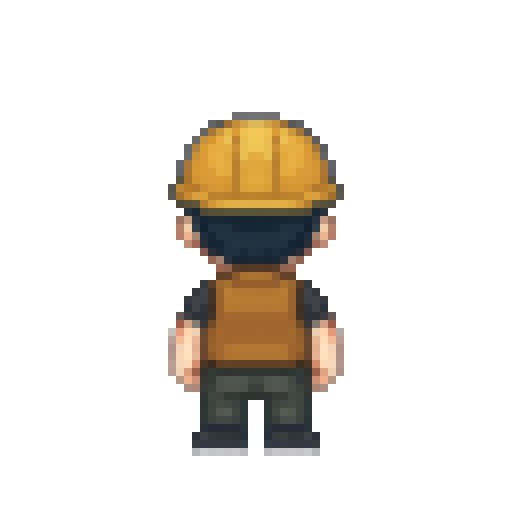
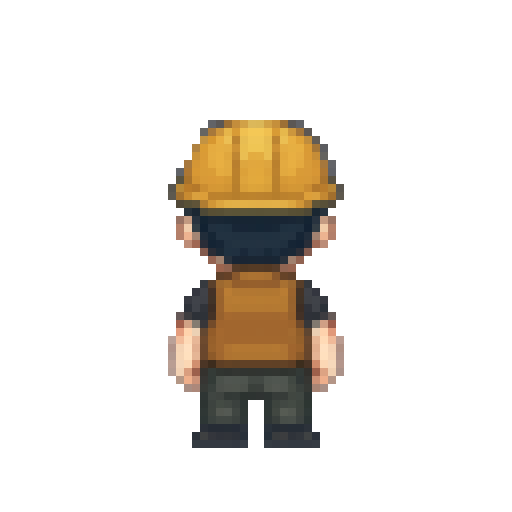
feat(ui): Pixel signature action poses + transparent residue cleanup
Owner-requested Phase 2 increment: one reviewed key pose per role (pm typing,
arch whiteboard, dev coffee, qa magnifier, ops deploy, res book, designer notes,
gate shield), shown only while that role performs its own signature behavior
and is not walking or seated. Priority: walking front > seated back > action >
front. Live pose share: front standing 43% -> 42%, action 6%.

The Gemini candidates carried an opaque light/grey rim from upstream white
background removal; the owner asked for it to be transparent.
scripts/pixel_alpha_cleanup.py removes only edge-connected near-neutral light
pixels not in the role master's palette (identity whites kept); sources stay
untouched, runtime files and hashes recorded in PROVENANCE.md. Back views
re-derived with the same recipe. All files preloaded before the atomic swap.

diff --git a/src/systems/characterAppearance.js b/src/systems/characterAppearance.js
@@ -17,29 +17,55 @@ const SOURCE_SIZE = 512
 const BASE_URL = `${(typeof import.meta !== 'undefined' && import.meta.env?.BASE_URL) || '/'}assets/characters/pixel-v1/`
 
 // pivot = measured sole contact in logical px (see public/assets/characters/pixel-v1/PROVENANCE.md).
-// views.back = owner-requested import (2026-11-08) of the 2026-11-07 idle-up candidates, used ONLY for
-// the seated-at-desk pose (everything below the waist is clipped behind the chair).
+// views = owner-requested imports (2026-11-08/09): back (seated at desk) + one signature action per
+// role. Runtime files are DERIVED from Gemini candidates by scripts/pixel_alpha_cleanup.py (outer
+// light/grey background residue -> transparent, identity colours of the master kept); sources and
+// hashes are recorded in public/assets/characters/pixel-v1/PROVENANCE.md.
 // Dev's canvas is off-centre (twin tails) and her soles end one row higher.
 export const PIXEL_V1_PACK = Object.freeze({
   version: 'pixel-v1',
   sourceSize: SOURCE_SIZE,
   roles: Object.freeze({
[2 lines of base64/hex data omitted]
+      views: {
[2 lines of base64/hex data omitted]
+      } },
[2 lines of base64/hex data omitted]
+      views: {
[2 lines of base64/hex data omitted]
+      } },
[2 lines of base64/hex data omitted]
+      views: {
[2 lines of base64/hex data omitted]
+      } },
[2 lines of base64/hex data omitted]
+      views: {
[2 lines of base64/hex data omitted]
+      } },
[2 lines of base64/hex data omitted]
+      views: {
[2 lines of base64/hex data omitted]
+      } },
[2 lines of base64/hex data omitted]
+      views: {
[2 lines of base64/hex data omitted]
+      } },
[2 lines of base64/hex data omitted]
+      views: {
[2 lines of base64/hex data omitted]
+      } },
[2 lines of base64/hex data omitted]
+      views: {
[2 lines of base64/hex data omitted]
+      } },
   }),
   // Lightweight-mode roles reuse the identity the classic palette already maps them to.
   aliases: Object.freeze({ planner: 'pm', worker: 'dev', checker: 'qa' }),
@@ -56,6 +82,25 @@ function viewEntry(role, view, pack) {
 
 export function pixelHasBackView(role, pack = PIXEL_V1_PACK) {
   return !!pack.roles[role]?.views?.back
+}
+
+// Behavior -> signature action pose. A role shows a pose only for ITS OWN signature behavior and
+// only when that reviewed view exists; otherwise the front master (honest fallback). The pose is
+// chosen from the agent's actual behavior, never from its transport status.
+export const BEHAVIOR_POSES = Object.freeze({
+  typing: 'typing',
+  whiteboard: 'pointing-board',
+  'drink-coffee': 'drinking-coffee',
+  magnifier: 'reading-magnifier',
+  'deploy-button': 'control-deploy',
+  research: 'reading-book',
+  'writing-notes': 'writing-notes',
+  'shield-verify': 'control-shield',
+})
+
+export function pixelActionView(role, behavior, pack = PIXEL_V1_PACK) {
+  const view = BEHAVIOR_POSES[behavior]
+  return view && pack.roles[role]?.views?.[view] ? view : null
 }
 
 // Every file the pack can render (front masters + reviewed views): all are preloaded before the

diff --git a/tests/seatedAtDesk.test.jsx b/tests/seatedAtDesk.test.jsx
@@ -4,8 +4,8 @@ import { renderToStaticMarkup } from 'react-dom/server'
 import { HOME_POSITIONS } from '../src/systems/movementSystem.js'
 import { isSeatedAtDesk, DESK_ROLES, SEAT_SHIFT, SEAT_CLIP_Y } from '../src/systems/seating.js'
 import { applyBackView } from '../src/systems/backView.js'
-import { CharacterBody } from '../src/components/CharacterBody.jsx'
-import { PIXEL_V1_PACK, pixelHasBackView } from '../src/systems/characterAppearance.js'
+import { CharacterBody, pixelViewFor } from '../src/components/CharacterBody.jsx'
+import { PIXEL_V1_PACK, pixelHasBackView, BEHAVIOR_POSES, pixelActionView } from '../src/systems/characterAppearance.js'
 
 const home = (id) => ({ ...HOME_POSITIONS[id] })
 
@@ -75,5 +75,29 @@ describe('seated frame rendering', () => {
     expect(html).toContain('data-pixel-view="back"')
     expect(html).toMatch(/pixel-v1\/dev-back\.png/)
     expect(html).toContain('x="-31.5"') // dev back pivot x 36 * 7/8
+  })
+})
+
+describe('Pixel signature action poses', () => {
+  const svg = (el) => renderToStaticMarkup(<svg>{el}</svg>)
+  const SIGNATURE = { pm: 'typing', arch: 'whiteboard', dev: 'drink-coffee', qa: 'magnifier', ops: 'deploy-button', res: 'research', designer: 'writing-notes', gate: 'shield-verify' }
+  it("each role has exactly its own signature pose, and no one borrows another role's", () => {
+    for (const [role, behavior] of Object.entries(SIGNATURE)) {
+      expect(pixelActionView(role, behavior), role).toBe(BEHAVIOR_POSES[behavior])
+      for (const [other, b2] of Object.entries(SIGNATURE)) if (other !== role) expect(pixelActionView(role, b2), `${role}/${b2}`).toBe(null)
+    }
+  })
+  it('pose priority: walking front > seated back > own action > front', () => {
+    expect(pixelViewFor({ charId: 'pm', isMoving: true, seated: true, behavior: 'typing' })).toBe('front')
+    expect(pixelViewFor({ charId: 'pm', seated: true, behavior: 'typing' })).toBe('back')
+    expect(pixelViewFor({ charId: 'pm', behavior: 'typing' })).toBe('typing')
+    expect(pixelViewFor({ charId: 'pm', behavior: 'coffee' })).toBe('front')
+    expect(pixelViewFor({ charId: 'worker', behavior: 'drink-coffee' })).toBe('drinking-coffee') // alias -> dev
+    expect(pixelViewFor({ charId: 'mystery', behavior: 'whiteboard' })).toBe('front') // fallback pm has no whiteboard pose
+  })
+  it('renders the action file with its own pivot', () => {
+    const html = svg(<CharacterBody appearance="pixel" charId="arch" behavior="whiteboard" />)
+    expect(html).toContain('data-pixel-view="pointing-board"')
+    expect(html).toMatch(/pixel-v1\/arch-pointing-board\.png/)
   })
 })

diff --git a/src/components/CharacterBody.jsx b/src/components/CharacterBody.jsx
@@ -1,5 +1,5 @@
 import React, { useSyncExternalStore } from 'react'
-import { getAppearanceSnapshot, pixelAssetUrl, pixelBodyPlacement, resolvePixelRole, subscribeAppearance } from '../systems/characterAppearance'
+import { getAppearanceSnapshot, pixelActionView, pixelAssetUrl, pixelBodyPlacement, resolvePixelRole, subscribeAppearance } from '../systems/characterAppearance'
 import { SEAT_CLIP_Y, SEAT_SHIFT } from '../systems/seating.js'
 
 // { requested, active, status, error } — `active` is what renders (only flips after a full preload).
@@ -13,9 +13,17 @@ export function useOfficeAppearance() {
 // Pixel   → the role's front master for every facing (Phase 1: no mirroring, no pasted
 //           classic arms/face, unsupported expressions stay neutral).
 // (Not memoised: `classic` is a fresh element every parent render; PixelBody itself is memoised.)
-export function CharacterBody({ appearance, charId, isMoving = false, reducedMotion = false, classic, seated = false, seatClipId = 'seat-clip' }) {
+// Pixel pose priority: walking -> front master; seated at desk (working) -> back; stationary doing
+// the role's own signature behavior with a reviewed pose -> that action; otherwise front master.
+export function pixelViewFor({ charId, isMoving = false, seated = false, behavior = null }) {
+  if (isMoving) return 'front'
+  if (seated) return 'back'
+  return pixelActionView(resolvePixelRole(charId), behavior) || 'front'
+}
+
+export function CharacterBody({ appearance, charId, isMoving = false, reducedMotion = false, classic, seated = false, seatClipId = 'seat-clip', behavior = null }) {
   const body = appearance !== 'pixel' ? classic
-    : <PixelBody charId={charId} isMoving={isMoving} reducedMotion={reducedMotion} view={seated ? 'back' : 'front'} />
+    : <PixelBody charId={charId} isMoving={isMoving} reducedMotion={reducedMotion} view={pixelViewFor({ charId, isMoving, seated, behavior })} />
   return <SeatedFrame seated={seated} clipId={seatClipId}>{body}</SeatedFrame>
 }
 

diff --git a/src/systems/characterAppearance.test.js b/src/systems/characterAppearance.test.js
@@ -143,8 +143,9 @@ describe('appearance store (atomic pack switch)', () => {
   it('preload covers every front master and every reviewed view exactly once', () => {
     const urls = requiredPixelUrls()
     expect(new Set(urls).size).toBe(urls.length)
-    expect(urls.filter(u => !u.includes('-back.png'))).toHaveLength(8)
+    expect(urls.filter(u => /pixel-v1\/[a-z]+\.png$/.test(u))).toHaveLength(8)
     expect(urls.filter(u => u.includes('-back.png'))).toHaveLength(8)
+    expect(urls).toHaveLength(8 + 8 + 8) // front + back + one signature action per role
   })
 
   it('urls are same-origin relative paths under the pack folder', () => {

diff --git a/src/components/AgentCharacter.jsx b/src/components/AgentCharacter.jsx
@@ -1710,7 +1710,7 @@ function AgentCharacter({ agent }) {
       {/* Phase-1 Pixel appearance swaps ONLY this decorative body; everything else in this
           actor group (rings, labels, badges, bubbles, input) is shared by both appearances. */}
       <CharacterBody appearance={appearance} charId={id} isMoving={isWalking} reducedMotion={reducedMotion}
-        seated={seated} seatClipId={`seat-clip-${id}`}
+        seated={seated} seatClipId={`seat-clip-${id}`} behavior={state.behavior}
         classic={(
           <CharacterPixelSprite
             charId={id}

diff --git a/scripts/pixel_alpha_cleanup.py b/scripts/pixel_alpha_cleanup.py
@@ -1,0 +1,103 @@
+"""Deterministic background-residue cleanup for Pixel candidate art (owner-requested 2026-11-09).
+
+Some Gemini candidates were exported on white and then background-removed, which left opaque
+light-grey pixels on the outer silhouette (worst around the shoes, sometimes a strip under the
+soles). This tool makes ONLY those residue pixels transparent:
+
+  * works on the 64x64 logical grid (every logical pixel is an exact 8x8 block; refuses otherwise)
+  * a pixel is residue when it is opaque, light (min channel > 100) and near-neutral
+    (max-min < 30), 4-connected to the OUTSIDE transparent region, and its colour is NOT within
+    6 (per channel) of any opaque colour of that role's ORIGINAL master - so identity whites such
+    as Dev's sneakers, QA's sleeves or Gate's silver hair are kept
+  * peels at most 2 layers (the 1-2 px blended rim/strip), never touches interior pixels
+  * changes alpha only (to 0) for whole 8x8 blocks; every other pixel is copied unchanged
+
+Usage: python scripts/pixel_alpha_cleanup.py <candidate.png> <master.png> <out.png>
+Prints a JSON report (removed logical pixels, input/output sha256). Requires Pillow.
+Originals are never modified; the report is the provenance record.
+"""
+import hashlib
+import json
+import sys
+
+from PIL import Image
+
+LIGHT_MIN, NEUTRAL_SPREAD, PALETTE_TOL, MAX_LAYERS = 100, 30, 6, 2
+
+
+def sha(path):
+    return hashlib.sha256(open(path, 'rb').read()).hexdigest()
+
+
+def grid_of(im):
+    px = im.load()
+    w, h = im.size
+    if (w, h) != (512, 512):
+        raise SystemExit(f'expected 512x512, got {w}x{h}')
+    g = []
+    for by in range(64):
+        row = []
+        for bx in range(64):
+            c = px[bx * 8, by * 8]
+            for y in range(8):
+                for x in range(8):
+                    if px[bx * 8 + x, by * 8 + y] != c:
+                        raise SystemExit(f'non-uniform 8x8 block at logical ({bx},{by})')
+            row.append(c)
+        g.append(row)
+    return g
+
+
+def main(cand_path, master_path, out_path):
+    cand = Image.open(cand_path).convert('RGBA')
+    master = Image.open(master_path).convert('RGBA')
+    g = grid_of(cand)
+    mg = grid_of(master)
+    palette = {c[:3] for row in mg for c in row if c[3] >= 250}
+
+    def in_palette(rgb):
+        return any(all(abs(a - b) <= PALETTE_TOL for a, b in zip(rgb, p)) for p in palette)
+
+    def residue_like(c):
+        r, gg, b, a = c
+        return a >= 250 and min(r, gg, b) > LIGHT_MIN and max(r, gg, b) - min(r, gg, b) < NEUTRAL_SPREAD and not in_palette((r, gg, b))
+
+    # outside = transparent cells connected to the canvas border
+    outside = set()
+    stack = [(x, y) for x in range(64) for y in (0, 63)] + [(x, y) for y in range(64) for x in (0, 63)]
+    while stack:
+        x, y = stack.pop()
+        if (x, y) in outside or not (0 <= x < 64 and 0 <= y < 64) or g[y][x][3] != 0:
+            continue
+        outside.add((x, y))
+        stack += [(x + 1, y), (x - 1, y), (x, y + 1), (x, y - 1)]
+
+    removed = []
+    for _ in range(MAX_LAYERS):
+        layer = [(x, y) for y in range(64) for x in range(64)
+                 if residue_like(g[y][x]) and any((nx, ny) in outside for nx, ny in ((x + 1, y), (x - 1, y), (x, y + 1), (x, y - 1)))]
+        if not layer:
+            break
+        for x, y in layer:
+            removed.append([x, y, list(g[y][x][:3])])
+            g[y][x] = (0, 0, 0, 0)
+            outside.add((x, y))
+
+    out = cand.copy()
+    px = out.load()
+    for x, y, _ in removed:
+        for yy in range(8):
+            for xx in range(8):
+                px[x * 8 + xx, y * 8 + yy] = (0, 0, 0, 0)
+    out.save(out_path, format='PNG')
+    print(json.dumps({
+        'input': cand_path, 'input_sha256': sha(cand_path),
+        'master': master_path, 'master_sha256': sha(master_path),
+        'output': out_path, 'output_sha256': sha(out_path),
+        'recipe': {'light_min': LIGHT_MIN, 'neutral_spread': NEUTRAL_SPREAD, 'palette_tol': PALETTE_TOL, 'max_layers': MAX_LAYERS},
+        'removed_count': len(removed), 'removed': removed,
+    }))
+
+
+if __name__ == '__main__':
+    main(*sys.argv[1:4])

diff --git a/public/assets/characters/pixel-v1/PROVENANCE.md b/public/assets/characters/pixel-v1/PROVENANCE.md
@@ -23,26 +23,38 @@ removal, trim, recentre, resample or recolour.
 | gate.png | 8692bcceee24a97423808a49c1a0bb5f6b31383ce87d9555b2b97b8889832dd8 |
 | designer.png | 61a665352ce563ba3a8a6de6cd6db5b6adc71be1873b93f0648059f200ed679c |
 
-## Back views (`<role>-back.png`) — imported 2026-11-08 at the owner's request
+## Views (back + signature actions) — imported 2026-11-08/09 at the owner's request
 
-Byte-for-byte copies of `pixel-kit/generated/candidates/2026-11-07-directions/characters/<role>/idle-up-0.png`.
-These candidates were produced by Gemini from each role's ORIGINAL master, but the producer
-disclosed background segmentation / crop / per-image scaling that had not been approved; the owner
-asked for them to be imported after review. Claude's review: 512x512 RGBA, zero non-uniform 8x8
-blocks, hard alpha (no partial-alpha halo), identity matches each master from behind (light and dark
-backgrounds). Known defect: pm / qa / ops / gate carry a light-grey residue strip on the row under
-the soles (logical row 56) from background removal. Mitigation: back views are used ONLY for the
-seated-at-desk pose, where everything below the waist is clipped behind the chair, so the strip is
-never rendered. Pivot = measured dark-sole bottom row / sole midpoint (not the residue row).
-Heads are 1-2 logical rows taller than the masters (accepted; seated only).
+Sources: Gemini candidates generated from each role's ORIGINAL master
+(`candidates/2026-11-07-directions/.../idle-up-0.png` for backs, `candidates/2026-11-05-regenerated/.../actions/*`
+for actions, Dev's coffee pose from the 2026-11-07 replacement). Those exports had been background-removed
+from white upstream, leaving an opaque light/grey rim (worst at the shoes, a strip under some soles); the
+owner asked for it to be made transparent.
 
-| file | sha256 | pivot (x, y) |
-|---|---|---|
-| pm-back.png | 04c603a98548d606be3991c20148c47a2df96ffad2a25ce12fc5711bbd77763d | 31.5, 57 |
-| arch-back.png | 5cf00fcf0ddeba3d7c7dd055abb204e17367371f4c916472cd656c3912053501 | 31, 56 |
-| dev-back.png | e2a4052ece046595ae677a06657aacb9a97710cb0de947d5b73724083ee72079 | 36, 57 |
-| qa-back.png | ff4c6de508b008565ee7a1e01a7ddaca4b6387ff481af95569119cae715f6e95 | 32, 56 |
-| ops-back.png | 2952b81ce35d8112004e5d2b90baa25b49698a831203bb366d9c3bfea8669ed5 | 32, 56 |
-| res-back.png | 17150b272363f8ac4b13c8edd87a52628b227f9fd4d055fe6aa69eef646c0c61 | 32, 57 |
-| designer-back.png | 96728530404986b37b9f3707385644770de9dfb0ef9818564f3b7babf2107784 | 32, 57 |
-| gate-back.png | 339999b385020d8cab781edcaa6657d4a6079186277a45ad322093af2e543180 | 31.5, 56 |
+Runtime files are DERIVED, not byte copies: `python scripts/pixel_alpha_cleanup.py <source> <master> <out>`
+(recipe: light_min 100, neutral_spread 30, palette_tol 6, max_layers 2) sets alpha to 0 only on
+edge-connected, near-neutral light pixels whose colour is not in that role's master palette, for whole 8x8
+blocks; nothing else changes. Sources stay untouched in the kit. Review: exact 8x8 grid, hard alpha,
+identity matches the master (light/dark and floor-colour composites at app scale), identity whites kept
+(Dev sneakers, Gate silver hair, QA paper). Pivot = measured bottom sole row / sole midpoint after cleanup.
+Back views are used only seated (clipped below the waist); action poses only while the role performs its
+own signature behavior and is not walking.
+
+| file | source | source sha256 | runtime sha256 | removed px | pivot (x, y) |
+|---|---|---|---|---|---|
+| arch-back.png | candidates/2026-11-07-directions/characters/arch/idle-up-0.png | 5cf00fcf0ddeba3d… | 339522ca5bd498b4cf88273344b53d07442e497c6f10ed7de953759163fbd817 | 43 | 31, 56 |
+| arch-pointing-board.png | characters/arch/actions/pointing-board-0.png | 39c9090b253d0062… | fc6325bb41a5ef2180d88efd696ecf5d1c12b4b1d102cd498ed4f4dedc98ed2d | 55 | 31.5, 56 |
+| designer-back.png | candidates/2026-11-07-directions/characters/designer/idle-up-0.png | 96728530404986b3… | 0c172c3685b79d4eeca586aae99919309c7a41334cc108249abb4ec408a900d4 | 25 | 32, 57 |
+| designer-writing-notes.png | characters/designer/actions/writing-notes-0.png | 37017156ccf4c146… | da236a7db6fb46bc8136e596009aa0be8d95e199b6147cd2c57b361d3a5e47dd | 58 | 32.5, 57 |
+| dev-back.png | candidates/2026-11-07-directions/characters/dev/idle-up-0.png | e2a4052ece046595… | 1e7564273729f2b1c7791741621d82274de681986a6eb64f4423ee65691b316b | 24 | 36, 57 |
+| dev-drinking-coffee.png | candidates/2026-11-07-directions/characters/dev/actions/drinking-coffee-1.png | 87630b485a2da97b… | 7d0307980fa96af4cf052d164f098949f535e463003ce8ca1803c986f592a289 | 51 | 36, 57 |
+| gate-back.png | candidates/2026-11-07-directions/characters/gate/idle-up-0.png | 339999b385020d8c… | a362fcb49be4987c28398b24e1f6f2ae8a127e532741775299857f1cd0a5c0f4 | 27 | 31.5, 57 |
+| gate-control-shield.png | characters/gate/actions/control-shield-0.png | f6b6edf99ffb89ae… | c5ed74774526bb43815ec3e1bda0dd861275d8510af2a4532add9d1387bec256 | 22 | 32, 57 |
+| ops-back.png | candidates/2026-11-07-directions/characters/ops/idle-up-0.png | 2952b81ce35d8112… | 39a0de129bea2063ede86c6bf23736c654be055ba6624037409d09e8f2eaf615 | 26 | 32, 56 |
+| ops-control-deploy.png | characters/ops/actions/control-deploy-0.png | f0be321c0ff3667f… | e4d620b6c6a48512ac07a00646aad8c894e4db5a6ebf4ea25ef3d1a6a143ef03 | 72 | 32, 56 |
+| pm-back.png | candidates/2026-11-07-directions/characters/pm/idle-up-0.png | 04c603a98548d606… | bfb2fa0fc9d50a2a1e85c7d2e55dc77a55dbaa63517f963e4d38792bdc6a628b | 41 | 31.5, 57 |
+| pm-typing.png | characters/pm/actions/typing-0.png | 5f4787dfa9b6c3ae… | 2f4bbe71576687343849748c8b0e1fd23f35aaf85b35e2ec23d9c186db21faa1 | 38 | 31.5, 56 |
+| qa-back.png | candidates/2026-11-07-directions/characters/qa/idle-up-0.png | ff4c6de508b00856… | b59c17b8fe55ae074a63969fce667fb675280fda9aaa8132566646656446439e | 28 | 32, 57 |
+| qa-reading-magnifier.png | characters/qa/actions/reading-magnifier-0.png | a2f9a1ca45b9ce7f… | 1d82acf2e076d0a2ee5cbc098a029cf26f9c3c808a0f1b73e51a2d9922ee5fb8 | 32 | 31.5, 57 |
+| res-back.png | candidates/2026-11-07-directions/characters/res/idle-up-0.png | 17150b272363f8ac… | bf5a7f160eb16ed06c495084248ac69c177be5c721cfb53047208529ce2b1e99 | 4 | 32, 57 |
+| res-reading-book.png | characters/res/actions/reading-book-0.png | b962cf6df56ddcd5… | 405cd0d703937248b465d5550d3f99dae677536c532ef58351cc8561f7ada875 | 58 | 32, 57 |

diff --git a/docs/specs/phased-pixel-character-refresh.md b/docs/specs/phased-pixel-character-refresh.md
@@ -89,8 +89,18 @@ Pixel sits only for roles whose
 reviewed back-view asset is listed in the manifest (`views.back`); until then the front master
 stands, as in Phase 1. World feet, routes, hit target and overlays are unchanged.
 
+## Phase 2 increment 1 — back views + signature action poses (owner-requested 2026-11-08/09)
+
+One reviewed key pose per role, shown only while that role performs ITS OWN signature behavior
+and is not walking or seated: pm typing, arch whiteboard (pointing), dev drink-coffee, qa
+magnifier, ops deploy-button, res research (book), designer writing-notes, gate shield-verify.
+Priority: walking -> front master; seated (working at desk) -> back; own signature behavior ->
+action pose; otherwise front master. All poses face the viewer except the seated back.
+Runtime files are derived by scripts/pixel_alpha_cleanup.py (owner asked for the white/grey rim
+to be made transparent); sources untouched; recipe and hashes in pixel-v1/PROVENANCE.md.
+
 Back views imported 2026-11-08 at the owner's request (first Phase 2 increment): the 2026-11-07
-idle-up candidates for all 8 roles, byte-for-byte, after review (see pixel-v1/PROVENANCE.md and
+idle-up candidates for all 8 roles, after review (later re-derived with the residue cleanup) (see pixel-v1/PROVENANCE.md and
 docs/reviews/2026-11-08-pixel-phase1/back-view-import-review.jpg). Used only seated, where the
 known below-sole residue row is clipped. All front + view files are preloaded before the atomic swap.
 

diff --git a/docs/reviews/2026-11-08-pixel-phase1/README.md b/docs/reviews/2026-11-08-pixel-phase1/README.md
@@ -22,3 +22,8 @@ select the agent. Reduced motion → 0 walk-bob nodes.
 Finding carried to R1 (not changed here): at desks both appearances put the feet on the top edge
 of the chair (shared world anchor + current chair geometry), which can read as standing on the
 chair. Any fix is shared paint order/occlusion or seat geometry, applied to both appearances.
+
+## Pose share (live sample, 120 s, 4 working + 4 idle, Pixel)
+- before actions: front 43% | walking 12% | seated back 39% | (signature behavior shown as front) 6%
+- after actions:  front 42% | walking 9%  | seated back 42% | action 6%
+Front standing stays as common; every action pose also faces the viewer.
